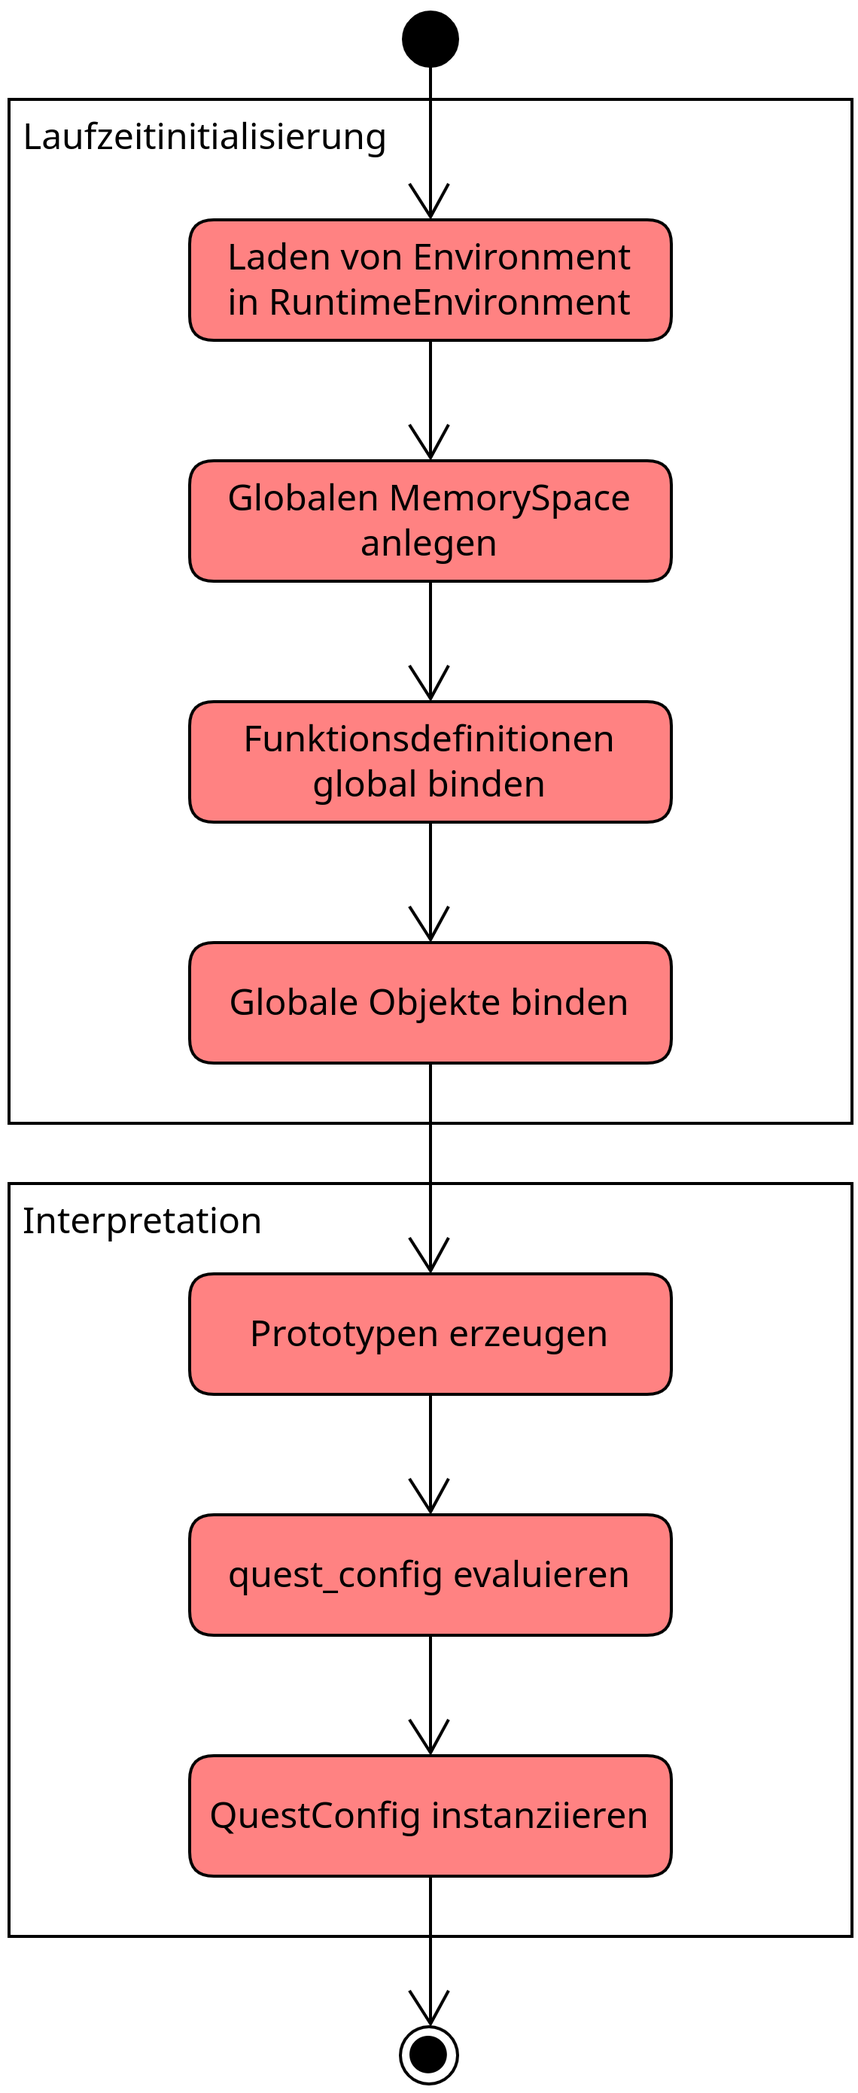
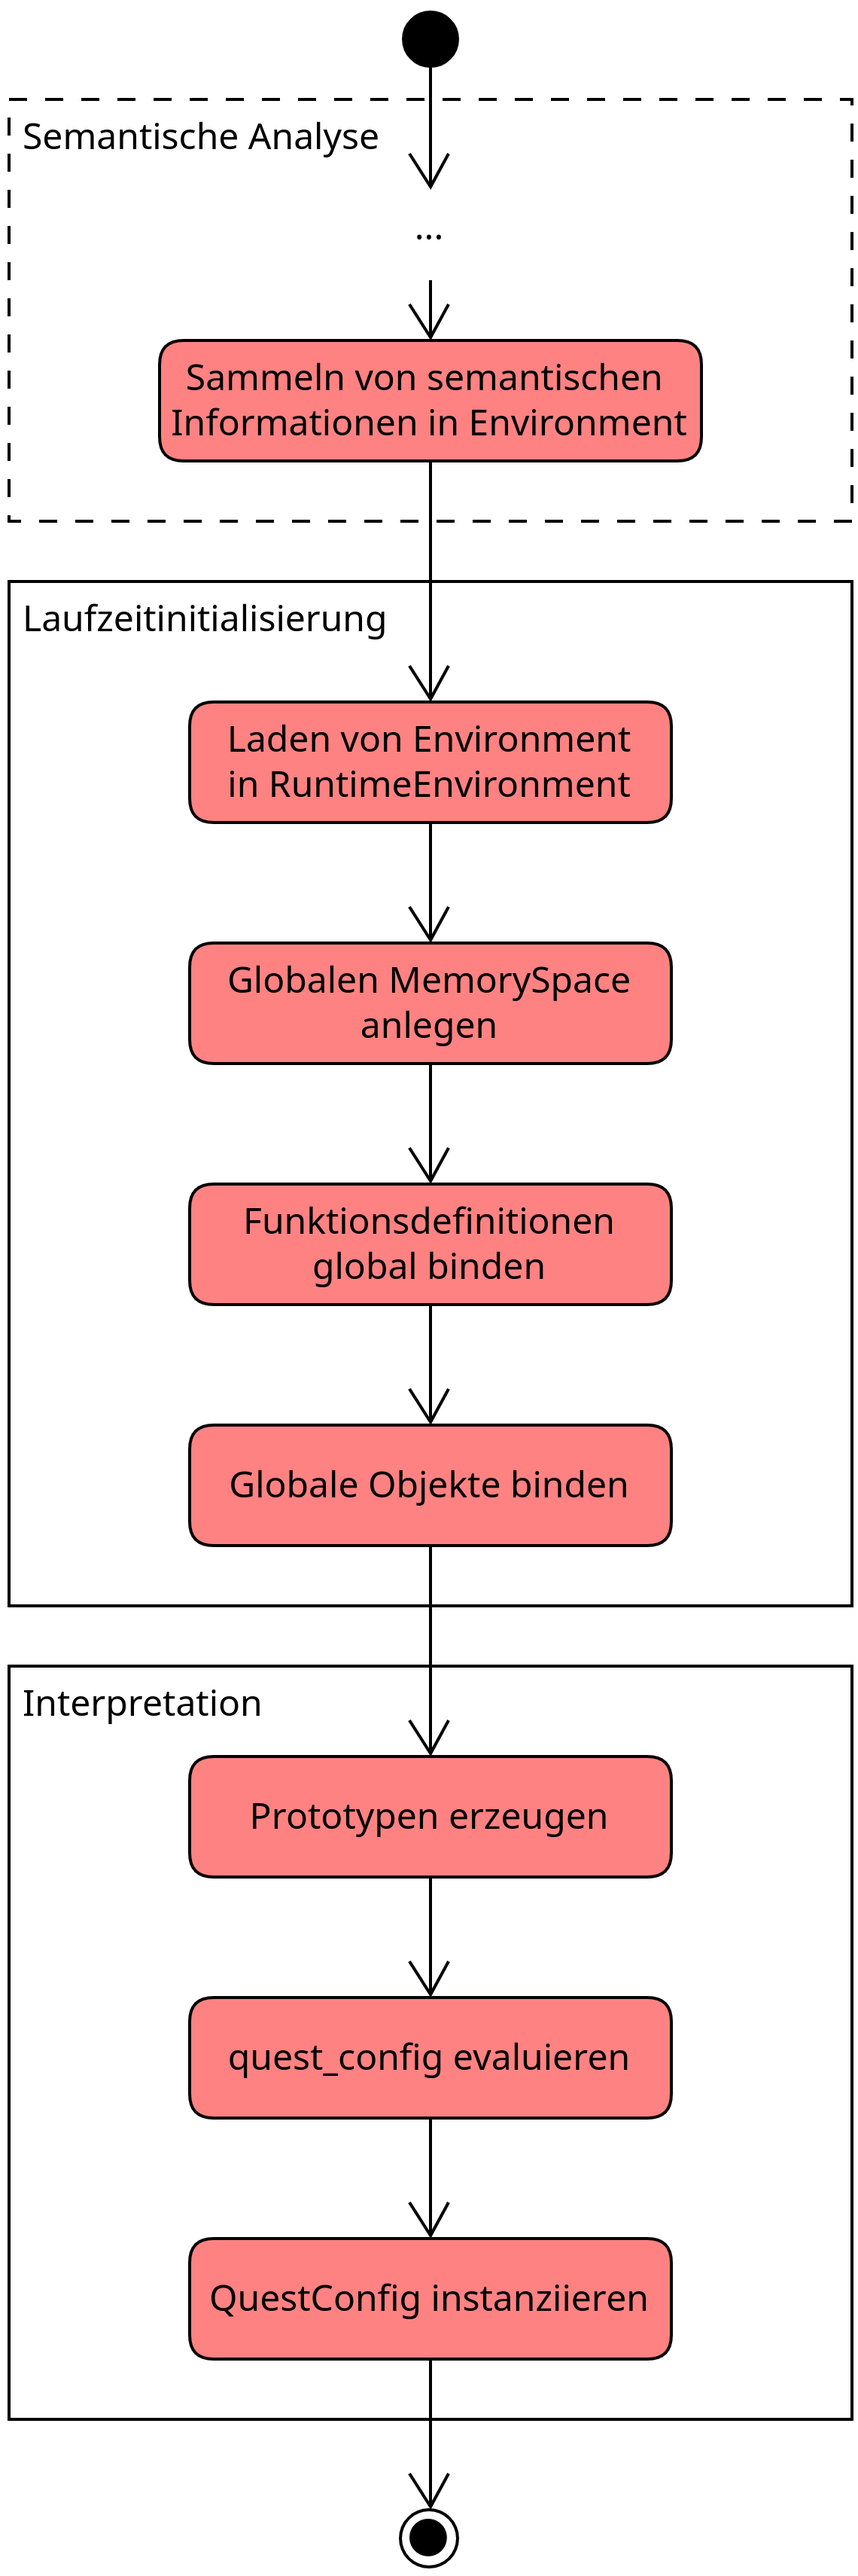
Clarify origin of Environment passed to runtime init

diff --git a/doc/dsl/interpretation_laufzeit.md b/doc/dsl/interpretation_laufzeit.md
@@ -14,14 +14,16 @@ werden, sind im folgenden Diagram dargestellt:
 ![UML: Interpretatiospipeline](img/interpretation_pipeline.png){width="50%"}
 
 Die Interpretations-Pipeline ist in zwei Phasen aufgeteilt, die Laufzeitinitialisierung und
-die Interpretation.
+die Interpretation. Der Interpretation ist die Phase der semantischen Analyse vorgelagert,
+welche sämtliche semantischen Informationen (Typinformationen, Scopes, Symboltabellen, etc.)
+in einer `IEnvironment`-Instanz sammelt.
 
 ### Laufzeitinitialisierung
 
 Zuerst lädt der `DSLInterpreter` die Symbol- und Typinformationen aus der übergebenen
 `IEnvironment`-Instanz in ein `RuntimeEnvironment`. Anschließend wird ein globaler
-`MemorySpace` erzeugt, welcher das Laufzeit-Äquivalent zu einem `Scope` darstellt. In diesem
-globalen `MemorySpace` werden globale Definitonen von Funktionen und Objekten (bspw. von
+`MemorySpace` erzeugt, welcher das **Laufzeit-Äquivalent** zu einem `Scope` darstellt. In diesem
+globalen `MemorySpace` werden globale Definitionen von Funktionen und Objekten (bspw. von
 `quest_config`) als `Value` gebunden (für weiter Informationen siehe [Value und
 MemorySpace](#value-und-imemoryspace)).
 
